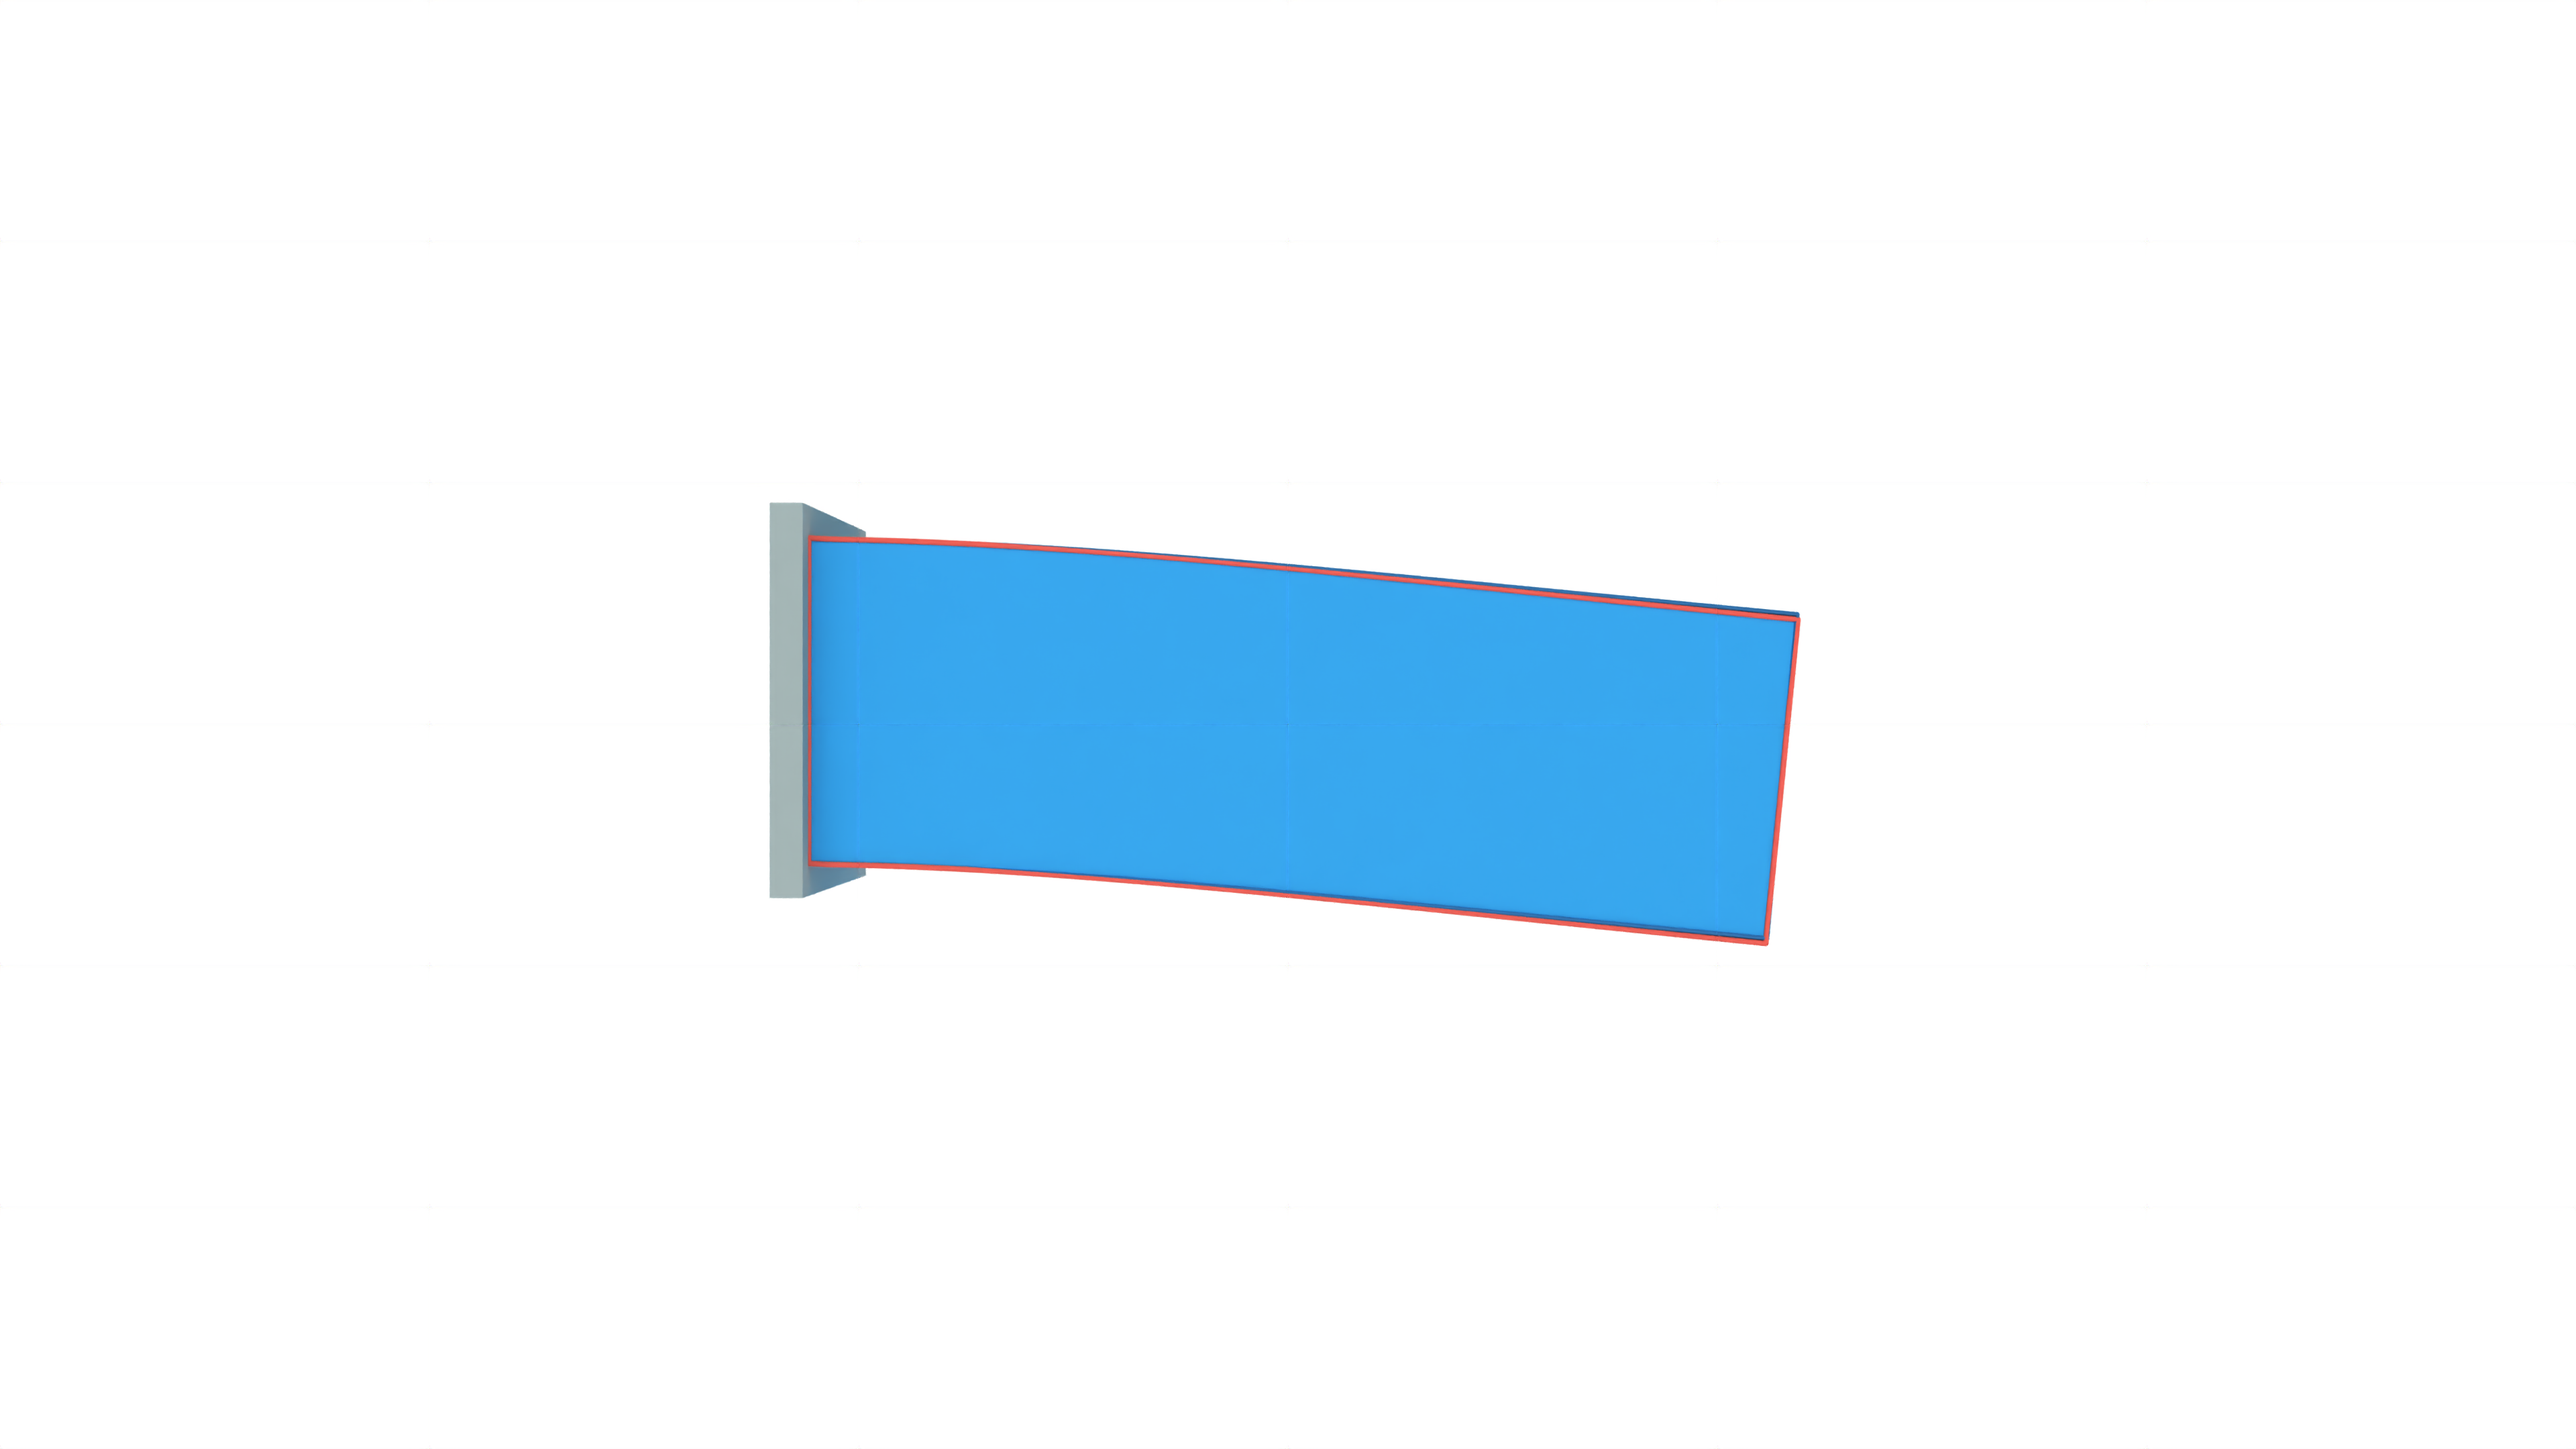
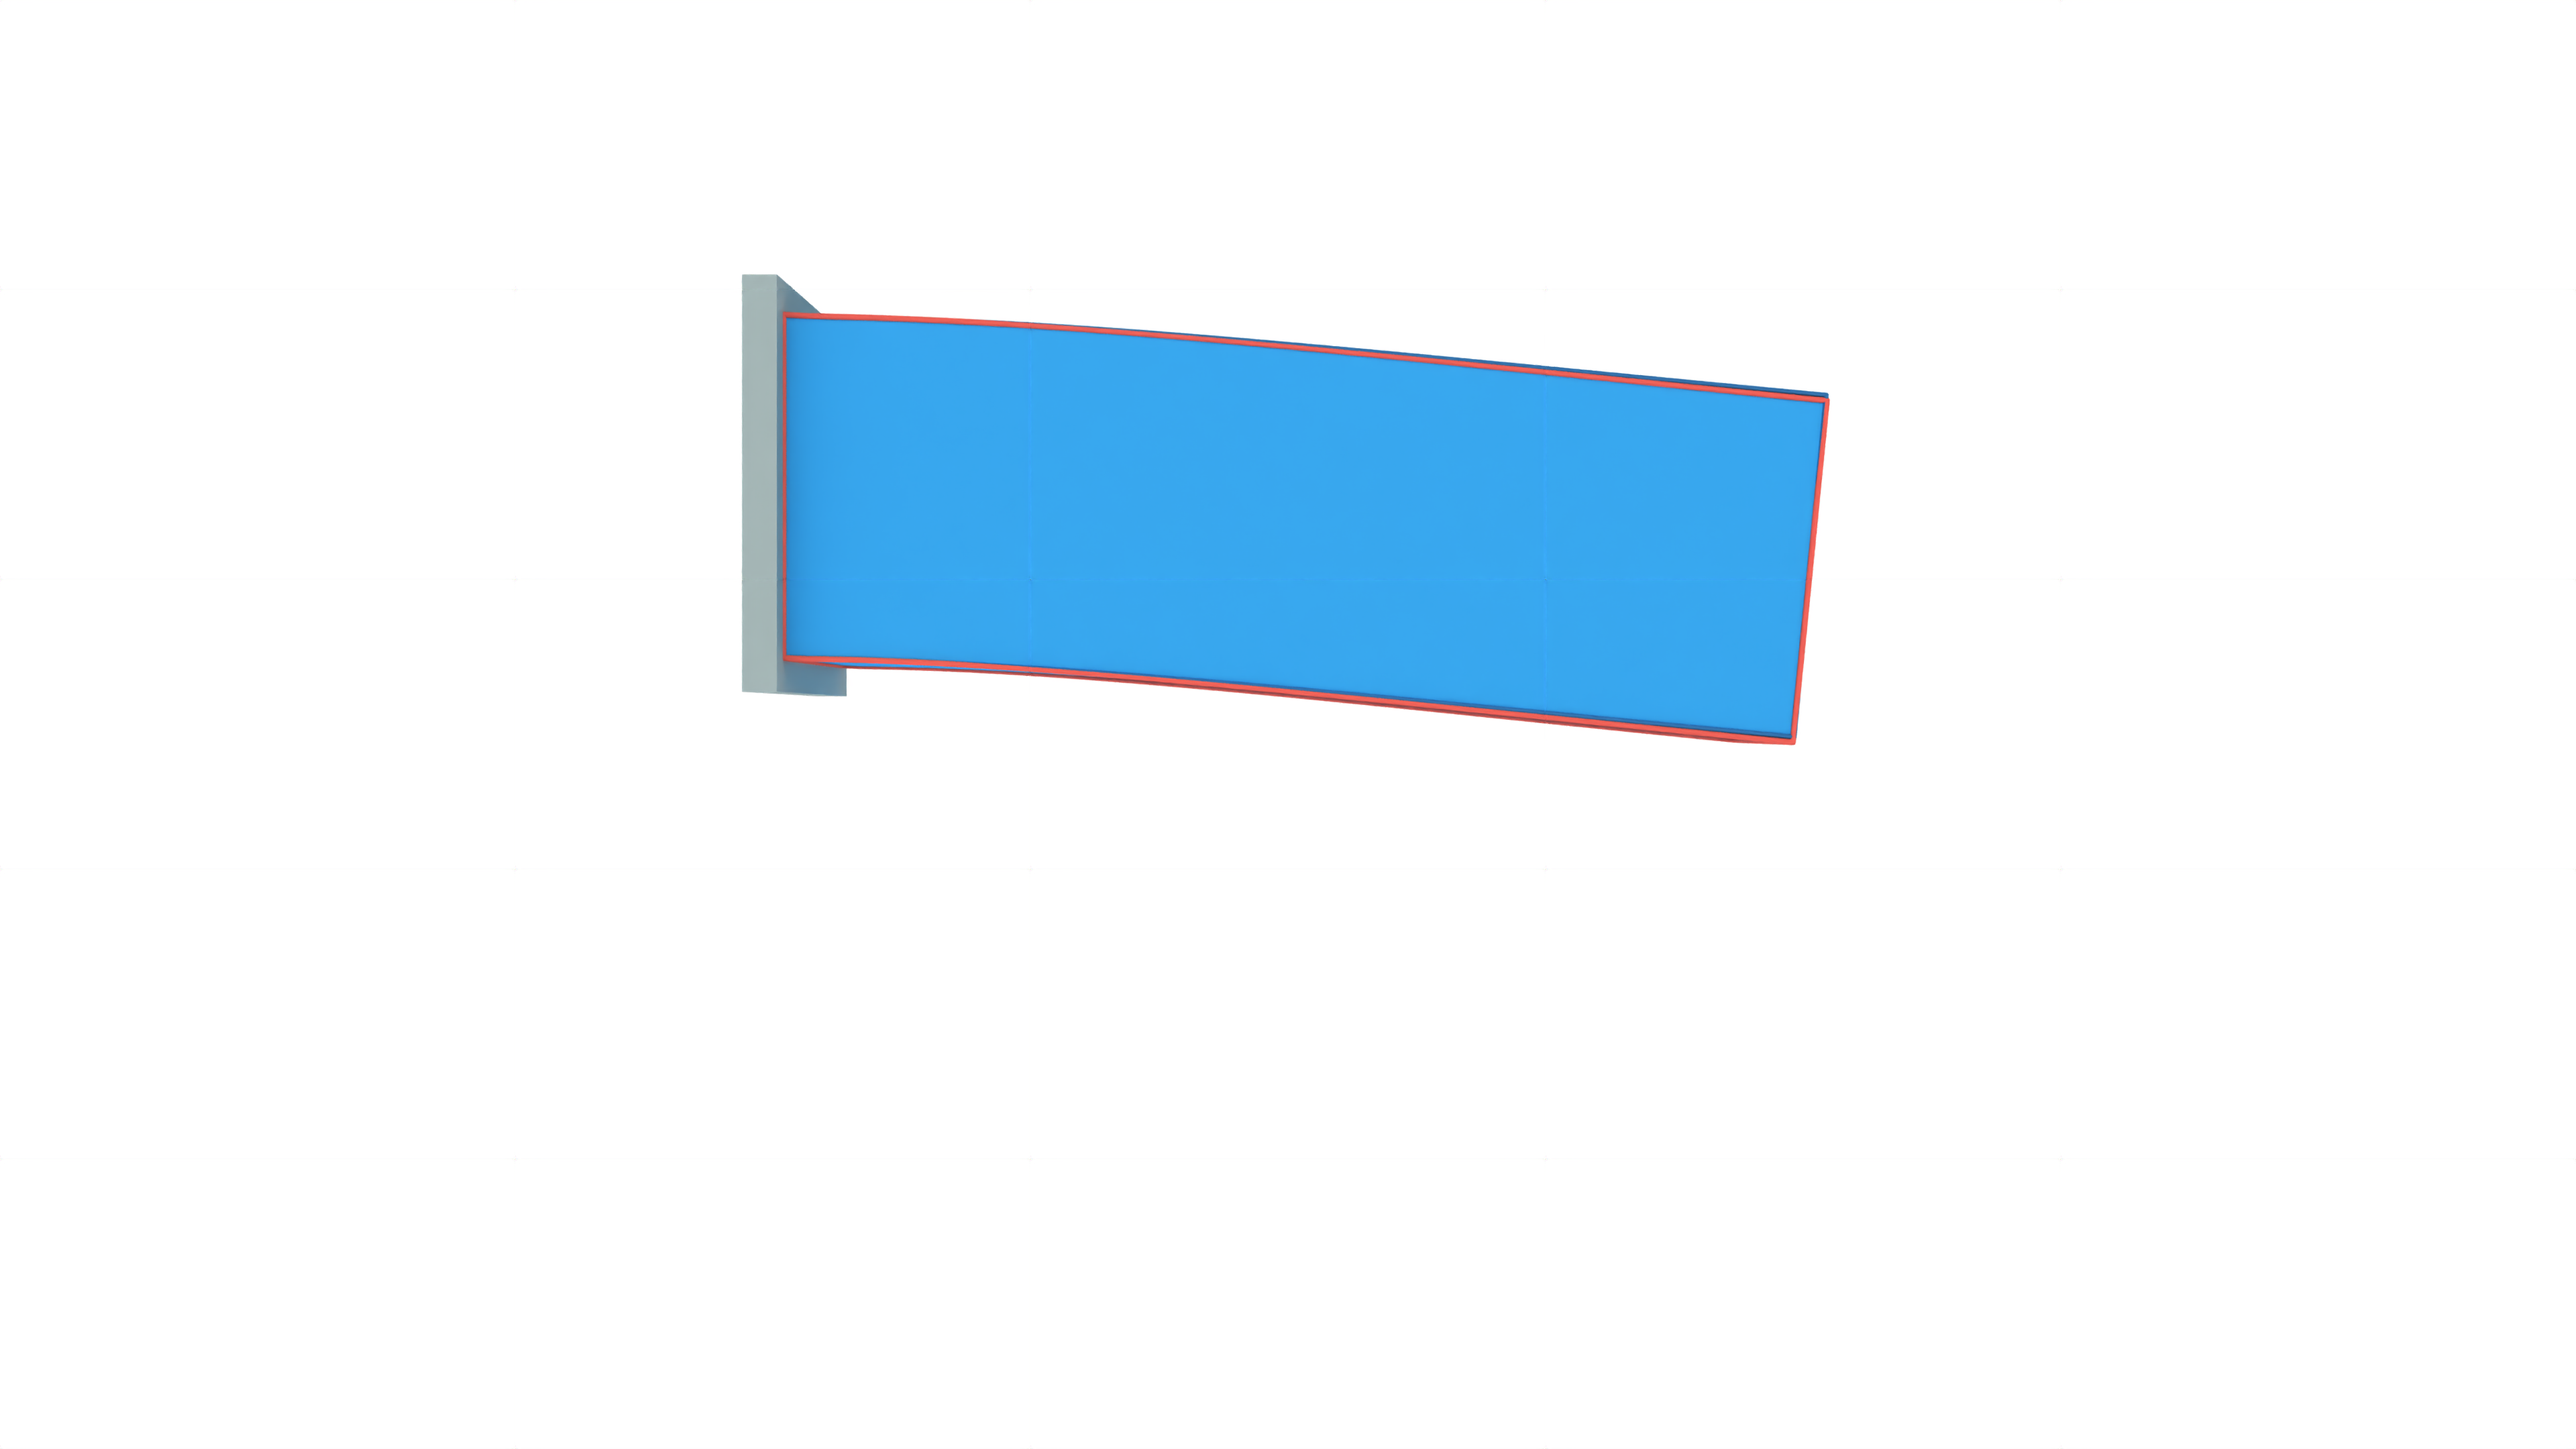
aze

Changed region(s): [[0.2812, 0.1861, 0.7188, 0.6514]]

diff --git a/octopus/include/Scene/BaseScene.h b/octopus/include/Scene/BaseScene.h
@@ -68,8 +68,8 @@ struct BaseScene final : Scene
         root->add_behaviour(new DynamicManager(Vector3(0.,-9.81*1.f,0.)));
         root->add_behaviour(new InputManager());
         root->add_behaviour(new CameraManager());
-        root->add_behaviour(new DebugManager(true));
-        root->add_behaviour(new OpenGLManager(Color(0.9f,0.9f,0.9f,1.f)));
+        root->add_behaviour(new DebugManager(false));
+        root->add_behaviour(new OpenGLManager(Color(1.0f,1.0f,1.0f,1.f)));
     }
 
     // build scene's entities
@@ -84,32 +84,33 @@ struct BaseScene final : Scene
         args.iteration = 5;
         args.sub_iteration = 5;
         args.scenario_1 = 0;
-        args.scenario_2 = 0;
-        args.dir = Unit3D::up();
+        args.scenario_2 = -1;
+        args.dir = Unit3D::right();
         args.material = Stable_NeoHooke;
-        args.display = FEM_DataDisplay::Type::Mask;
-        args.mesh_file = "mesh/vtk/armadilo_low_poly_hexa.vtk";
+        args.display = FEM_DataDisplay::Type::BaseColor;
+        //args.mesh_file = "mesh/vtk/armadilo_low_poly_hexa.vtk";
 
-        const Vector3 size(1, 1, 1);
-        Vector3I cells = Vector3I(24, 12, 12);
-        args.iteration = 20;
+        const Vector3 size(4, 1, 1);
+        Vector3I cells = Vector3I(64, 16, 16);
+        args.iteration = 10;
         args.sub_iteration = 10;
-        //build_mg_vbd_entity(Vector3(0,0,1.1),cells, size, Color(0.3,.3,0.7,0.), Hexa27, args, 0, 0.5, true);
-        args.iteration = 20;
+        //build_mg_vbd_entity(Vector3(0,0,0),cells, size, Color(0.3,.8,0.5,0.), Hexa27, args, 0, 0.5, true);
+        args.iteration = 10;
         args.sub_iteration = 10;
-        //build_vbd_entity(Vector3(0,0,2.2),cells, size, Color(0.3,.3,0.7,0.), Hexa27, args, 0, true);
+        //build_vbd_entity(Vector3(0,0,0),cells, size, Color(0.2,.8,0.2,0.), Hexa27, args, 0, true);
 
-        args.iteration = 4;
+        args.iteration = 2;
+        args.sub_iteration = 120;
+        build_vbd_entity(Vector3(0,0.,2.2),cells, size, Color(0.3,.8,0.3,0.), Hexa, args, 0, true);
+        args.damping = 1e-6;
+        args.iteration = 1;
         args.sub_iteration = 25;
-        build_vbd_entity(Vector3(0,0.5,2.2),cells, size, Color(0.3,.3,0.7,0.), Hexa, args, 0, true);
-        args.iteration = 4;
-        args.sub_iteration = 25;
-        build_mixed_vbd_entity(Vector3(0,0.5,1.1),cells, size, Color(0.3,.3,0.7,0.), Hexa, args, 10);
+        build_mixed_vbd_entity(Vector3(0,0,1.1),cells, size, Color(0.3,.7,0.7,0.), Hexa, args, 10);
         //build_vbd_entity(Vector3(0,0,3.3),cells, size, Color(0.3,.3,0.7,0.), Hexa, args, 0, true);
 
         args.sub_iteration = 400;
         args.damping = 5e-7;
-        //build_fem_entity(Vector3(0,0,0),cells, size, Color(0.3,.3,0.7,0.), Hexa, args, true);
+        build_fem_entity(Vector3(0,0,0),cells, size, Color(0.8,.3,0.3,0.), Hexa, args, true);
     }
 
     Mesh* get_beam_mesh(const Vector3& pos, const Vector3I& cells, const Vector3& size, const Element element) {
@@ -139,8 +140,8 @@ struct BaseScene final : Scene
     }
 
     GL_Graphic* build_graphic(const Color& color) {
-        //return new GL_GraphicHighOrder(2, color);
-        return new GL_GraphicSurface(color);
+        return new GL_GraphicHighOrder(2, color);
+        //return new GL_GraphicSurface(color);
     }
 
     GL_DisplayMesh* build_display() {

diff --git a/octopus/src/Script/Display/DataDisplay.cpp b/octopus/src/Script/Display/DataDisplay.cpp
@@ -25,6 +25,17 @@ void FEM_DataDisplay::init() {
 }
 
 
+std::vector<Color> FEM_DataDisplay::convert_to_color(const std::vector<scalar> &data, const  scalar vmin, const scalar vmax) {
+    const scalar diff = vmax - vmin;
+    std::vector<Color> colors(data.size());
+    for (size_t i = 0; i < data.size(); ++i) {
+        const scalar t = (diff > eps) ? (data[i] - vmin) / diff : 0.f;
+        colors[i] = ColorMap::evaluate(t);
+    }
+    return colors;
+}
+
+
 std::vector<Color> FEM_DataDisplay::convert_to_color(const std::vector<scalar> &data) {
     const scalar min = *std::min_element(data.begin(), data.end());
     const scalar max = *std::max_element(data.begin(), data.end());
@@ -75,7 +86,7 @@ void FEM_DataDisplay::update() {
         _graphic->set_element_color(false);
         std::vector<int> i_data =_ps_dynamic->get_masks();
         const std::vector<scalar> data(i_data.begin(), i_data.end());
-        _graphic->set_vcolors(convert_to_color(data));
+        _graphic->set_vcolors(convert_to_color(data,0,3));
     } else if (_mode == Stress) {
         _graphic->set_multi_color(true);
         _graphic->set_element_color(true);

diff --git a/octopus/include/Script/Display/DataDisplay.h b/octopus/include/Script/Display/DataDisplay.h
@@ -19,6 +19,7 @@ struct FEM_DataDisplay : public Component {
     void init() override;
 
     static std::vector<Color> convert_to_color(const std::vector<scalar>& data);
+    static std::vector<Color> convert_to_color(const std::vector<scalar>& data, scalar min, scalar max);
 
     void update() override;
 
